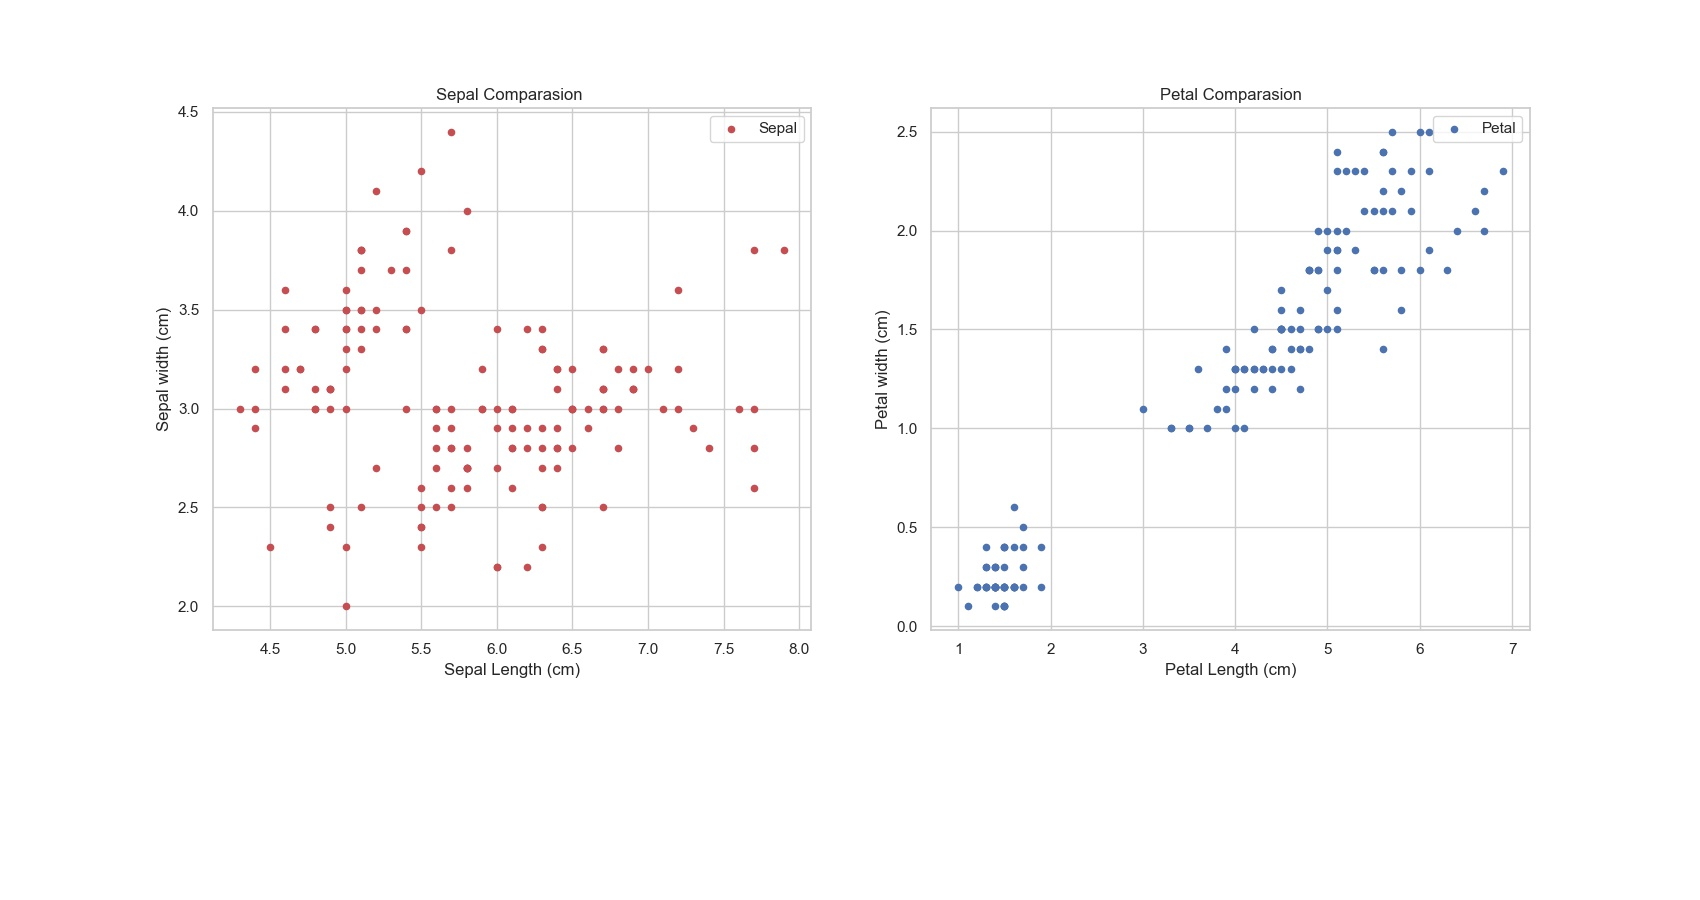
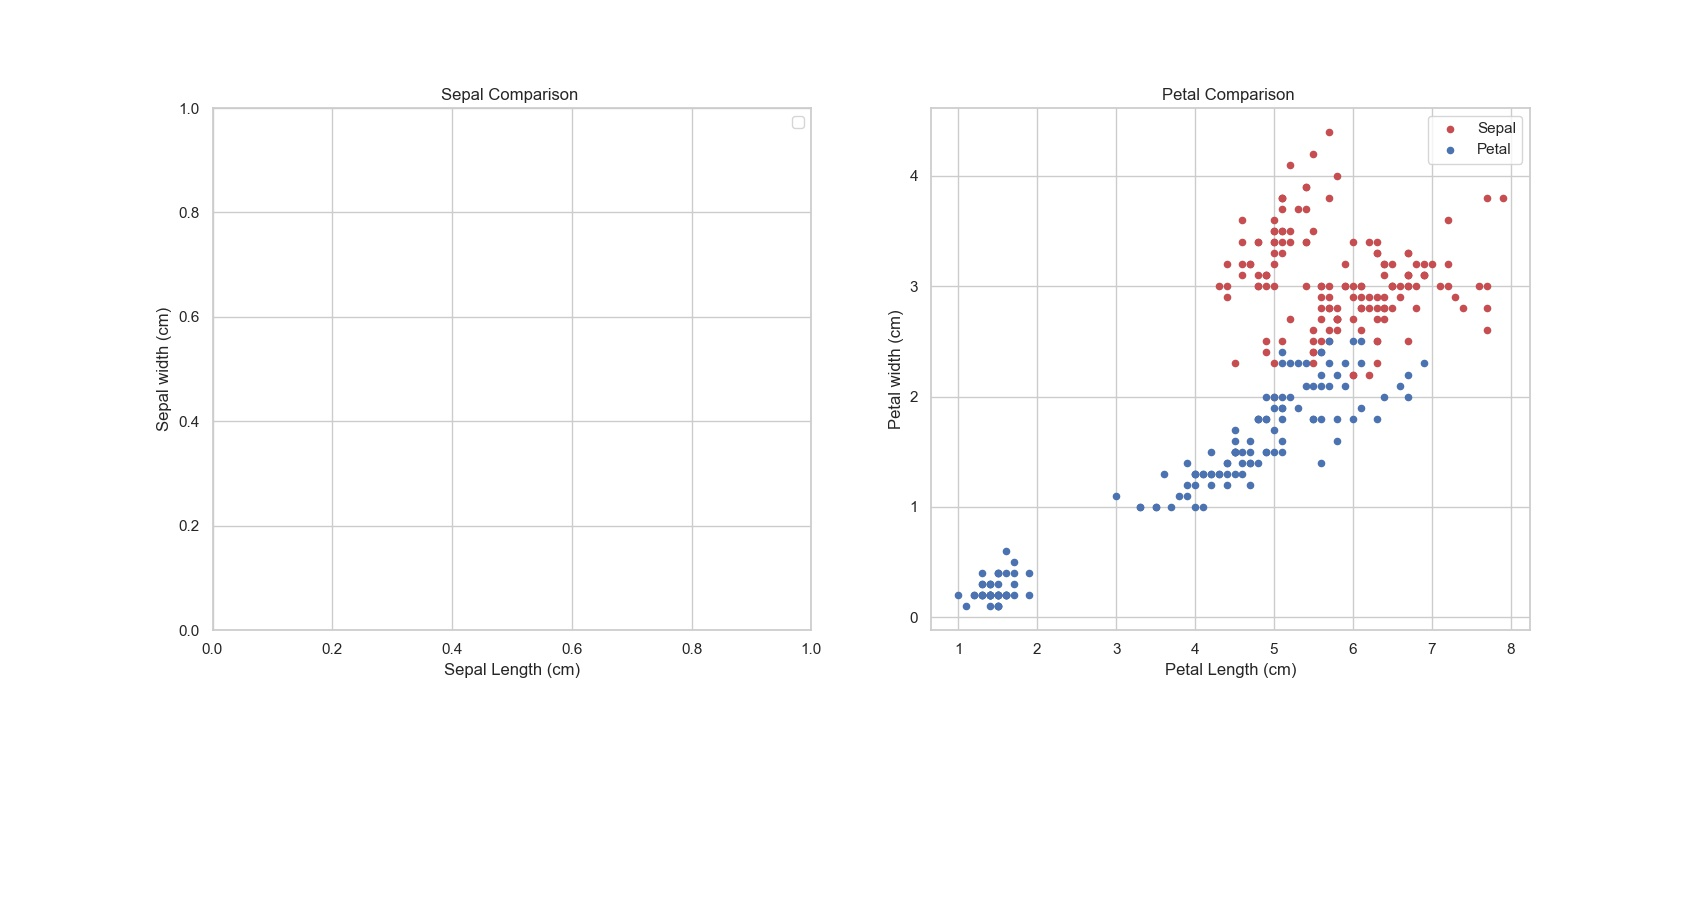
5th day...nearly there, sleep holidays soon

diff --git a/analyse.py b/analyse.py
@@ -316,10 +316,10 @@ fig,ax=plt.subplots(1,2,figsize=(17, 9))
 
 # Source: https://www.kaggle.com/abhishekkrg/python-iris-data-visualization-and-explanation
 
-iris_data.plot(x="Sepal length (cm)",y="Sepal width (cm)",kind="scatter",ax=ax[0],sharex=False,sharey=False,label="Sepal",color='r')
+iris_data.plot(x="Sepal length (cm)",y="Sepal width (cm)",kind="scatter",ax=ax[1],sharex=False,sharey=False,label="Sepal",color='r')
 iris_data.plot(x="Petal length (cm)",y="Petal width (cm)",kind="scatter",ax=ax[1],sharex=False,sharey=False,label="Petal",color='b')
-ax[0].set(title='Sepal Comparasion ', ylabel='Sepal width (cm)')
-ax[1].set(title='Petal Comparasion',  ylabel='Petal width (cm)')
+ax[0].set(title='Sepal Comparison ', ylabel='Sepal width (cm)')
+ax[1].set(title='Petal Comparison ',  ylabel='Petal width (cm)')
 ax[0].set(xlabel='Sepal Length (cm)')
 ax[1].set(xlabel='Petal Length (cm)')
 ax[0].legend()
